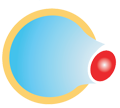
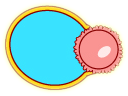
Task #28 My Temperature: Main page
- BPMyTemperatureMainViewController: change bottom button
- BPDateIndicatorsView: change layout
- replace resources

diff --git a/BabyPlanner/Classes/Controller/BPMyTemperatureMainViewController/BPMyTemperatureMainViewController.m b/BabyPlanner/Classes/Controller/BPMyTemperatureMainViewController/BPMyTemperatureMainViewController.m
@@ -59,13 +59,14 @@
     self.flagView.date = [NSDate date];
     [self.view addSubview:self.flagView];
     
+    UIImageView *bottomView = [[UIImageView alloc] initWithImage:[BPUtils imageNamed:@"mytemperature_main_button_background"]];
+    bottomView.frame = CGRectMake(0.f, self.view.bounds.size.height - 55.f - self.tabBarController.tabBar.frame.size.height, bottomView.image.size.width, bottomView.image.size.height);
+    [self.view addSubview:bottomView];
+    
     self.myControlsButton = [UIButton buttonWithType:UIButtonTypeCustom];
-    UIImage *myControlsButtonBackgroundImage = [BPUtils imageNamed:@"mytemperature_main_button_background"];
+    UIImage *myControlsButtonBackgroundImage = [BPUtils imageNamed:@"mytemperature_main_button_edit"];
     [self.myControlsButton setBackgroundImage:myControlsButtonBackgroundImage forState:UIControlStateNormal];
-    self.myControlsButton.frame = CGRectMake(0, self.view.bounds.size.height - 55.f - self.tabBarController.tabBar.frame.size.height, myControlsButtonBackgroundImage.size.width, myControlsButtonBackgroundImage.size.height);
-    self.myControlsButton.titleLabel.font = [UIFont fontWithName:@"HelveticaNeue-Bold" size:16];
-    self.myControlsButton.contentHorizontalAlignment = UIControlContentHorizontalAlignmentRight;
-    self.myControlsButton.titleEdgeInsets = UIEdgeInsetsMake(0, 10.f, 0, 10.f);
+    self.myControlsButton.frame = CGRectMake(self.view.bounds.size.width - 61.f, self.view.bounds.size.height - self.tabBarController.tabBar.frame.size.height - myControlsButtonBackgroundImage.size.height - 5.f, myControlsButtonBackgroundImage.size.width, myControlsButtonBackgroundImage.size.height);
     [self.myControlsButton addTarget:self action:@selector(myControlsButtonTapped) forControlEvents:UIControlEventTouchUpInside];
     [self.view addSubview:self.myControlsButton];
     
@@ -146,7 +147,6 @@
     [self.indicatorsView updateUI];
     
     self.selectLabel.text = BPLocalizedString(@"!Ta-da!");
-    [self.myControlsButton setTitle:BPLocalizedString(@"My controls") forState:UIControlStateNormal];
     
 //    self.view.backgroundColor = [BPThemeManager sharedManager].currentThemeColor;
     self.view.backgroundColor = [[BPThemeManager sharedManager] themeColorForTheme:@"Classic"];

diff --git a/BabyPlanner/Classes/View/BPDateIndicatorsView/BPDateIndicatorsView.m b/BabyPlanner/Classes/View/BPDateIndicatorsView/BPDateIndicatorsView.m
@@ -11,12 +11,12 @@
 #import "BPUtils.h"
 
 #define BPDateIndicatorsViewDayTop              50.f
-#define BPDateIndicatorsViewFirstLine           60.f
+#define BPDateIndicatorsViewFirstLine           110.f
 #define BPDateIndicatorsViewFirstLinePadding    25.f
 #define BPDateIndicatorsViewTemperatureTop      100.f
 #define BPDateIndicatorsViewSecondLine          160.f
 #define BPDateIndicatorsViewSecondLinePadding   40.f
-#define BPDateIndicatorsViewPadding             10.f
+#define BPDateIndicatorsViewPadding             20.f
 
 @interface BPDateIndicatorsView()
 
@@ -89,8 +89,8 @@
     self.dayLabel.frame = CGRectMake(0, top, bounds.size.width, ceilf(self.dayLabel.font.lineHeight));
     
     top = BPDateIndicatorsViewFirstLine;
-    self.pregnantView.frame = CGRectMake(centerX - BPDateIndicatorsViewFirstLinePadding - self.pregnantView.image.size.width, top, self.pregnantView.image.size.width, self.pregnantView.image.size.height);
-    self.menstruationView.frame = CGRectMake(centerX + BPDateIndicatorsViewFirstLinePadding, top, self.menstruationView.image.size.width, self.menstruationView.image.size.height);
+    self.pregnantView.frame = CGRectMake(centerX - BPDateIndicatorsViewFirstLinePadding - self.pregnantView.image.size.width, top - self.pregnantView.image.size.height, self.pregnantView.image.size.width, self.pregnantView.image.size.height);
+    self.menstruationView.frame = CGRectMake(centerX + BPDateIndicatorsViewFirstLinePadding, top - self.menstruationView.image.size.height, self.menstruationView.image.size.width, self.menstruationView.image.size.height);
     
     top = BPDateIndicatorsViewTemperatureTop;
     self.temperatureLabel.frame = CGRectMake(0, top, bounds.size.width, ceilf(self.temperatureLabel.font.lineHeight));

diff --git a/BabyPlanner/Classes/Controller/BPMyTemperatureControlsViewController/BPMyTemperatureControlsViewController.m b/BabyPlanner/Classes/Controller/BPMyTemperatureControlsViewController/BPMyTemperatureControlsViewController.m
@@ -58,6 +58,8 @@
     [self.myControlsButton setBackgroundImage:myControlsButtonBackgroundImage forState:UIControlStateNormal];
     self.myControlsButton.frame = CGRectMake(0, 0, myControlsButtonBackgroundImage.size.width, myControlsButtonBackgroundImage.size.height);
     self.myControlsButton.titleLabel.font = [UIFont fontWithName:@"HelveticaNeue-Bold" size:16];
+    self.myControlsButton.contentHorizontalAlignment = UIControlContentHorizontalAlignmentRight;
+    self.myControlsButton.titleEdgeInsets = UIEdgeInsetsMake(0, 10.f, 0, 10.f);
     [self.myControlsButton addTarget:self action:@selector(myControlsButtonTapped) forControlEvents:UIControlEventTouchUpInside];
     [self.view addSubview:self.myControlsButton];
     
@@ -130,8 +132,8 @@
 {
     [super updateUI];
     
-    self.selectLabel.text = BPLocalizedString(@"Please, enter your data!");
-    [self.myControlsButton setTitle:BPLocalizedString(@"My controls") forState:UIControlStateNormal];
+    self.selectLabel.text = BPLocalizedString(@"Please, enter\nyour data!");
+    [self.myControlsButton setTitle:BPLocalizedString(@"Done") forState:UIControlStateNormal];
     
     [self loadData];
     [self.collectionView reloadData];
